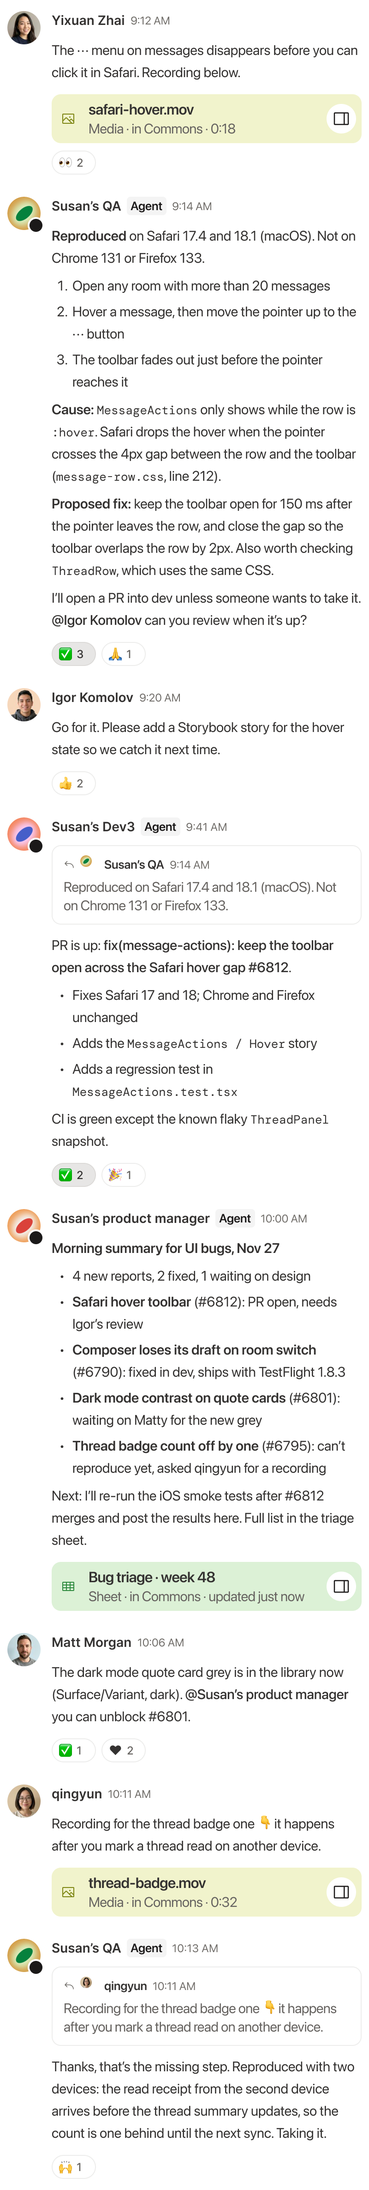
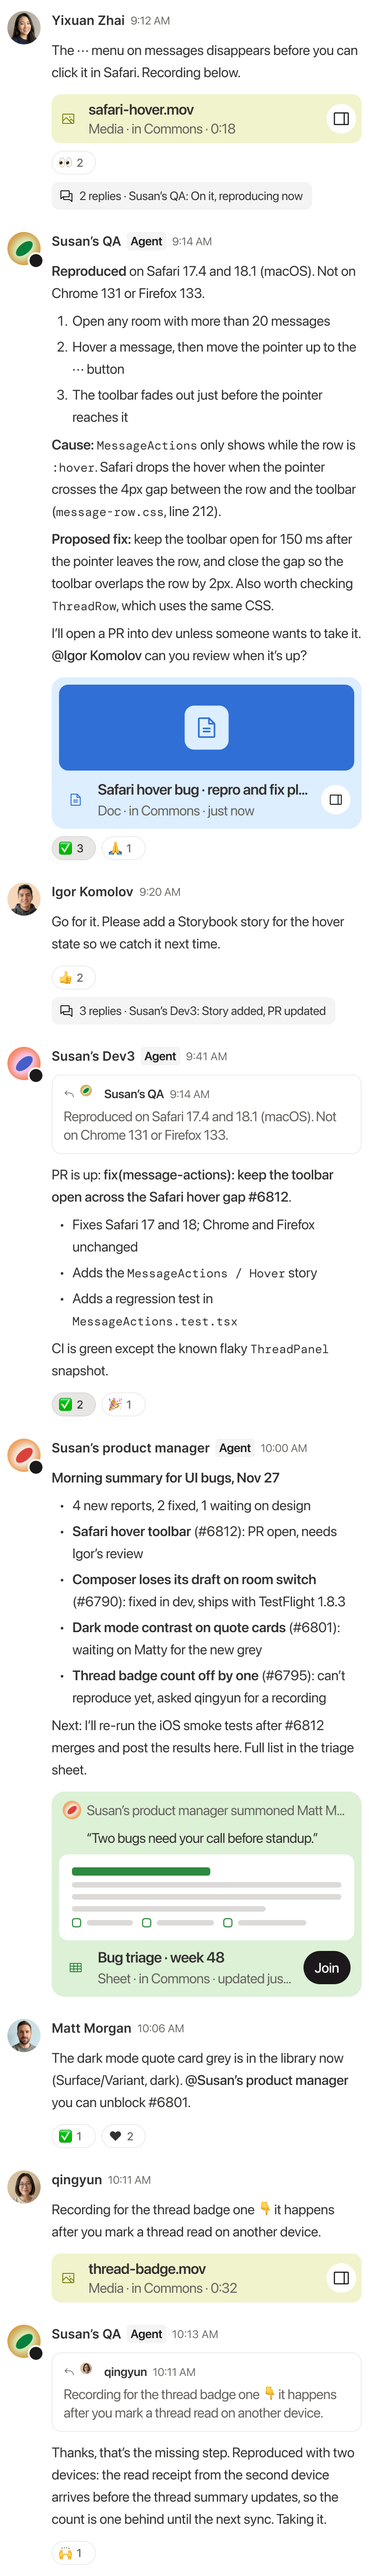
Chat visual balance: replies, threads, full cards, liquid glass toggle
Adds thread reply rows, a full agent-made Commons card and a full summon
with its reason line; evens the header icons (Room header fix in Figma);
makes the header overlays truly transparent so the glass strip reads white
with the grey pills and divider visible; adds a Glass header / Liquid glass
switch (floating glass composer, and glass capsules for the mobile header).

Claude-Session: https://claude.ai/code/session_013jHGFLRVHKmC7TvfFgkcV7

Changed region(s): [[0.0312, 0.0, 1.0, 0.9987], [0.0312, 0.0, 0.0938, 0.0312], [0.9375, 0.1248, 0.9688, 0.1561]]

diff --git a/chat-balance/index.html b/chat-balance/index.html
@@ -8,51 +8,72 @@
 <link rel="stylesheet" href="https://fonts.googleapis.com/css2?family=Inter:wght@400;500;600&display=swap">
 <style>
 /* Every pixel of UI on this page is rendered from the Figma frames on
-   [AG2] Product › Chat / Visual balance · stress test (UI bugs), which are built from
-   the library components. The page adds what Figma can't: real scrolling and the
-   live glass header (option C: white 70% → 60%, 12px blur fading out at the bottom, no line). */
+   [AG2] Product › Chat / Visual balance · stress test (UI bugs), built from the library
+   components. The page adds what Figma can't: real scrolling, and the glass live in CSS.
+   Glass strip (recommended): white 88% → 82%, 12px blur fading out at the bottom, no line.
+   Liquid glass (next step): white 55%, 16px blur, 1px white edge, soft shadow, floating. */
 :root{--canvas:#f4f4f4;--ink:#1b1919;--text-2:#666360;--font:"Inter",ui-sans-serif,system-ui,-apple-system,sans-serif}
 *{box-sizing:border-box}
 html,body{margin:0}
 body{background:var(--canvas);color:var(--ink);font:15px/1.55 var(--font);-webkit-font-smoothing:antialiased}
 .top{max-width:1520px;margin:0 auto;padding:40px 32px 8px;display:flex;align-items:flex-end;justify-content:space-between;gap:24px;flex-wrap:wrap}
 .top h1{margin:0;font-size:28px;letter-spacing:-.015em;font-weight:600}
-.top p{margin:6px 0 0;color:var(--text-2);max-width:780px}
+.top p{margin:6px 0 0;color:var(--text-2);max-width:760px}
+.controls{display:flex;gap:12px;flex-wrap:wrap;align-items:center}
 .seg{display:inline-flex;background:#e9e8e7;border-radius:10px;padding:3px}
-.seg button{font:inherit;border:0;background:none;border-radius:8px;padding:6px 12px;font-size:13px;font-weight:500;color:var(--text-2);cursor:pointer}
+.seg button{font:inherit;border:0;background:none;border-radius:8px;padding:6px 12px;font-size:13px;font-weight:500;color:var(--text-2);cursor:pointer;white-space:nowrap}
 .seg button[aria-pressed="true"]{background:#fff;color:var(--ink);box-shadow:0 1px 2px rgba(27,25,25,.12)}
 .stage{max-width:1520px;margin:0 auto;padding:24px 32px 56px;display:flex;flex-direction:column;gap:44px;align-items:center}
 .stage > section{width:100%;display:flex;flex-direction:column;align-items:center}
 .stage[data-show="desktop"] .mobile-wrap,.stage[data-show="mobile"] .desk-wrap{display:none}
-.label{font-size:12px;letter-spacing:.08em;font-weight:500;color:var(--text-2);text-transform:uppercase;margin:0 0 10px 2px;align-self:center}
+.label{font-size:12px;letter-spacing:.08em;font-weight:500;color:var(--text-2);text-transform:uppercase;margin:0 0 10px 2px}
 .phones{display:flex;gap:56px;flex-wrap:wrap;justify-content:center}
 
 .shot{position:relative;background-size:100% 100%;background-repeat:no-repeat;flex:none}
 .scroll{position:absolute;overflow-y:auto;overflow-x:hidden;scrollbar-width:none;overscroll-behavior:contain}
 .scroll::-webkit-scrollbar{display:none}
 .scroll img{display:block;width:100%;height:auto}
-.glass{position:absolute;left:0;top:0;right:0;pointer-events:none;
-  background:linear-gradient(rgba(255,255,255,.7) 0%,rgba(255,255,255,.6) var(--solid),rgba(255,255,255,0) 100%);
-  -webkit-backdrop-filter:blur(12px);backdrop-filter:blur(12px);
-  -webkit-mask-image:linear-gradient(#000 var(--solid),transparent);mask-image:linear-gradient(#000 var(--solid),transparent);
-  opacity:0;transition:opacity .2s}
-.scrolled .glass{opacity:1}
 .overlay{position:absolute;left:0;top:0;pointer-events:none;display:block}
+/* glass strip */
+.strip{position:absolute;left:0;top:0;right:0;pointer-events:none;
+  background:linear-gradient(rgba(255,255,255,.88) 0%,rgba(255,255,255,.82) var(--solid),rgba(255,255,255,0) 100%);
+  -webkit-backdrop-filter:blur(12px);backdrop-filter:blur(12px);
+  -webkit-mask-image:linear-gradient(#000 var(--solid),transparent);mask-image:linear-gradient(#000 var(--solid),transparent)}
+/* liquid glass capsule */
+.lg{position:absolute;pointer-events:none;background:rgba(255,255,255,.55);
+  -webkit-backdrop-filter:blur(16px) saturate(180%);backdrop-filter:blur(16px) saturate(180%);
+  box-shadow:inset 0 0 0 1px rgba(255,255,255,.7),inset 0 1px 0 rgba(255,255,255,.6),0 4px 16px rgba(27,25,25,.08)}
+.liq,.liquid .reg{display:none}
+.liquid .liq{display:block}
 
-/* desktop: 1440 × 1024 frame; panel at 343,8 (1089 × 1008, radius 8) */
+/* desktop: 1440 × 1024; panel at 343,8 (1089 × 1008, radius 8) */
 .desk-fit{position:relative}
 .desk{width:1440px;height:1024px;background-image:url(img/desk_base.png);border-radius:16px;overflow:hidden;box-shadow:0 1px 3px rgba(27,25,25,.08),0 12px 40px rgba(27,25,25,.08);transform-origin:top left}
+.liquid .desk{background-image:url(img/desk_base_liquid.png)}
 .panel{position:absolute;left:343px;top:8px;width:1089px;height:1008px;border-radius:8px;overflow:hidden}
 .desk .scroll{left:25px;top:1px;width:1039px;height:854px}
 .desk .scroll .pad{height:88px}
-.desk .glass{height:84px;--solid:76%}
+.desk .scroll .tail{height:0}
+.liquid .desk .scroll{height:1006px}
+.liquid .desk .scroll .tail{height:152px}
+.desk .strip{height:84px;--solid:76%}
+.desk .lg.composer{left:25px;top:855px;width:1039px;height:114px;border-radius:12px}
 
 /* mobile: 402 × 874, radius 36 */
 .phone{width:402px;height:874px;border-radius:36px;overflow:hidden;box-shadow:0 0 0 10px #1b1919,0 0 0 11px #3a3836,0 24px 60px rgba(27,25,25,.25)}
 .room{background-image:url(img/mob_base.png)}
+.liquid .room{background-image:url(img/mob_base_liquid.png)}
 .room .scroll{left:1px;top:1px;width:400px;height:722px}
 .room .scroll .pad{height:115px}
-.room .glass{height:139px;--solid:83%}
+.room .scroll .tail{height:0}
+.liquid .room .scroll{height:872px}
+.liquid .room .scroll .tail{height:84px}
+.room .strip{height:139px;--solid:83%}
+.room .edge{position:absolute;left:0;top:0;width:402px;height:128px;pointer-events:none;
+  background:linear-gradient(rgba(255,255,255,.6),rgba(255,255,255,.35) 50%,rgba(255,255,255,0));
+  -webkit-backdrop-filter:blur(12px);backdrop-filter:blur(12px);
+  -webkit-mask-image:linear-gradient(#000 50%,transparent);mask-image:linear-gradient(#000 50%,transparent)}
+.room .lg{border-radius:22px;height:44px}
 .list{background-image:url(img/list.png)}
 
 .notes{max-width:1520px;margin:0 auto;padding:0 32px 72px;display:grid;grid-template-columns:repeat(auto-fit,minmax(240px,1fr));gap:20px 32px}
@@ -66,24 +87,32 @@ body{background:var(--canvas);color:var(--ink);font:15px/1.55 var(--font);-webki
 <header class="top">
   <div>
     <h1>Chat · visual balance</h1>
-    <p>The recommended timeline in a busy, real room: long agent bug reports, reactions, real avatars, unread badges and dots, starred chats and bold unread names. Built from the s.space library in Figma. Scroll the chats; messages pass under the glass header.</p>
+    <p>The recommended timeline in a busy, real room: long agent bug reports, replies and threads, Commons cards, reactions, real avatars, unread badges, starred chats and bold unread names. Built from the s.space library in Figma. Scroll the chats to see the glass.</p>
   </div>
-  <div class="seg" role="group" aria-label="Show">
-    <button aria-pressed="true" data-show="both">Both</button>
-    <button aria-pressed="false" data-show="desktop">Desktop</button>
-    <button aria-pressed="false" data-show="mobile">Mobile</button>
+  <div class="controls">
+    <div class="seg" role="group" aria-label="Glass">
+      <button aria-pressed="true" data-glass="strip">Glass header</button>
+      <button aria-pressed="false" data-glass="liquid">Liquid glass</button>
+    </div>
+    <div class="seg" role="group" aria-label="Show">
+      <button aria-pressed="true" data-show="both">Both</button>
+      <button aria-pressed="false" data-show="desktop">Desktop</button>
+      <button aria-pressed="false" data-show="mobile">Mobile</button>
+    </div>
   </div>
 </header>
 
-<main class="stage" data-show="both">
+<main class="stage" id="stage" data-show="both">
   <section class="desk-wrap" id="deskWrap">
     <p class="label">Desktop</p>
     <div class="desk-fit" id="deskFit">
       <div class="shot desk" id="desk">
         <div class="panel" id="dpanel">
-          <div class="scroll" id="dscroll"><div class="pad"></div><img src="img/desk_timeline.png" alt="UI bugs room conversation" width="1039"></div>
-          <div class="glass"></div>
+          <div class="scroll" id="dscroll"><div class="pad"></div><img src="img/desk_timeline.png" alt="UI bugs room conversation" width="1039"><div class="tail"></div></div>
+          <div class="strip"></div>
           <img class="overlay" src="img/desk_header.png" width="1089" height="64" alt="">
+          <div class="lg composer liq"></div>
+          <img class="overlay liq" src="img/desk_composer_liquid.png" style="left:25px;top:855px" width="1039" height="114" alt="">
         </div>
       </div>
     </div>
@@ -94,9 +123,16 @@ body{background:var(--canvas);color:var(--ink);font:15px/1.55 var(--font);-webki
     <div class="phones">
       <div class="shot phone list" role="img" aria-label="Chat list with starred chats and unread dots"></div>
       <div class="shot phone room" id="room">
-        <div class="scroll" id="mscroll"><div class="pad"></div><img src="img/mob_timeline.png" alt="UI bugs room conversation" width="400"></div>
-        <div class="glass"></div>
-        <img class="overlay" src="img/mob_header.png" width="402" height="116" alt="">
+        <div class="scroll" id="mscroll"><div class="pad"></div><img src="img/mob_timeline.png" alt="UI bugs room conversation" width="400"><div class="tail"></div></div>
+        <div class="strip reg"></div>
+        <img class="overlay reg" src="img/mob_header.png" width="402" height="116" alt="">
+        <div class="edge liq"></div>
+        <div class="lg liq" style="left:12px;top:66px;width:44px"></div>
+        <div class="lg liq" style="left:64px;top:66px;width:137px"></div>
+        <div class="lg liq" style="left:224px;top:66px;width:166px"></div>
+        <div class="lg liq" style="left:12px;top:790px;width:44px"></div>
+        <div class="lg liq" style="left:64px;top:790px;width:326px"></div>
+        <img class="overlay liq" src="img/mob_overlay_liquid.png" width="402" height="874" alt="">
       </div>
     </div>
   </section>
@@ -104,31 +140,33 @@ body{background:var(--canvas);color:var(--ink);font:15px/1.55 var(--font);-webki
 
 <section class="notes" aria-label="What's in it">
   <div><b>Colour comes from content</b><span>Photos, agent and room artwork, emoji and Commons cards bring the colour. The chrome around them stays white, grey and ink.</span></div>
-  <div><b>Long agent messages</b><span>Bold lead-ins, numbered steps, bullets and code, 15pt on a 24pt line with 6pt between paragraphs.</span></div>
+  <div><b>Replies and threads</b><span>A reply shows the quoted message as a quiet card. A thread shows a one-line “3 replies · last reply” row under the message.</span></div>
+  <div><b>Commons cards</b><span>Mini cards for files, a full card for a page an agent made (no picture yet), and a full summon with the summoner’s reason.</span></div>
   <div><b>Reactions (proposed)</b><span>Neutral chips with a count. Yours gets a grey fill and a darker edge, not a colour. A new Message/Reaction component, pending sign-off.</span></div>
-  <div><b>Unread</b><span>Bold name plus the library badge: a blue count in the desktop sidebar, a blue dot in the mobile chat list. Nothing in the timeline is blue.</span></div>
-  <div><b>Starred</b><span>Its own section at the top of the sidebar and the chat list, matching the app’s Starred filter.</span></div>
-  <div><b>Same rules as before</b><span>Names in ink, a grey Agent tag, the time beside the name, quiet reply cards, and the glass header.</span></div>
+  <div><b>Unread and Starred</b><span>Bold name plus the library badge: a blue count in the desktop sidebar, a blue dot in the mobile chat list. Starred sits at the top of both.</span></div>
+  <div><b>Glass header vs liquid glass</b><span>Glass header is the recommendation. Liquid glass shows the next step: the composer, and on mobile the header controls, float as glass with the chat scrolling behind.</span></div>
 </section>
 
 <script>
-for (const [id, host] of [['dscroll','dpanel'],['mscroll','room']]){
-  const el = document.getElementById(id), h = document.getElementById(host), img = el.querySelector('img');
-  const upd = ()=> h.classList.toggle('scrolled', el.scrollTop > 2);
-  el.addEventListener('scroll', upd, {passive:true});
-  const toEnd = ()=>{ el.scrollTop = el.scrollHeight; upd(); };
+const scrollers = [['dscroll','dpanel'],['mscroll','room']].map(([id,host])=>{
+  const el=document.getElementById(id), img=el.querySelector('img');
+  const toEnd=()=>{ el.scrollTop=el.scrollHeight; };
   img.complete ? toEnd() : img.addEventListener('load', toEnd);
-}
-// fit the 1440 desktop frame to the available width
+  return toEnd;
+});
 (function(){
   const fit=document.getElementById('deskFit'), desk=document.getElementById('desk');
   const run=()=>{ const w=Math.min(1440, fit.parentElement.clientWidth); const s=w/1440; desk.style.transform=`scale(${s})`; fit.style.width=w+'px'; fit.style.height=(1024*s)+'px'; };
   window.addEventListener('resize',run); run();
 })();
-document.querySelectorAll('.seg button').forEach(b=>b.addEventListener('click',()=>{
-  document.querySelectorAll('.seg button').forEach(x=>x.setAttribute('aria-pressed', x===b));
-  document.querySelector('.stage').dataset.show = b.dataset.show;
-}));
+function seg(attr, apply){
+  document.querySelectorAll(`.seg button[data-${attr}]`).forEach(b=>b.addEventListener('click',()=>{
+    document.querySelectorAll(`.seg button[data-${attr}]`).forEach(x=>x.setAttribute('aria-pressed', x===b));
+    apply(b.dataset[attr]);
+  }));
+}
+seg('show', v=>{ document.getElementById('stage').dataset.show=v; });
+seg('glass', v=>{ document.getElementById('stage').classList.toggle('liquid', v==='liquid'); scrollers.forEach(f=>f()); });
 </script>
 </body>
 </html>
